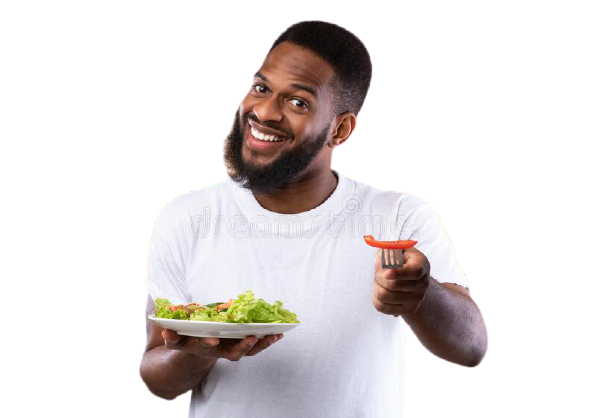
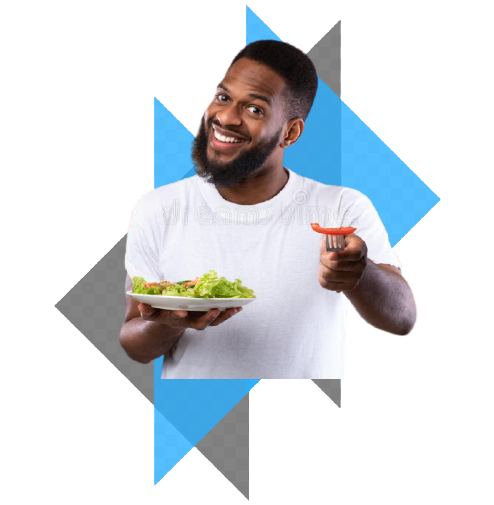
second commit

diff --git a/index.html b/index.html
@@ -13,24 +13,49 @@
 </head>
 
 <body>
+
     <section class="contain">
+
         <div class="container">
+
             <h1>EATING <span>HEALTHY FOOD</span> FILLS YOUR BODY WITH ENERGY AND NUTRIENTS.</h1>
             <h1>IMAGINE YOUR CELLS SMILING BACK AT YOU AND SAYING: ‘ <span>THANK YOU!</span> ’</h1>
             <p>Think about it! Money is not the only type of investment. You invest in yourself as well. You learn new
                 skills and also pay for your food. Why not pay for food that’s healthy and gives a return in terms of
                 good health and a fit body and mind?</p>
+            <a target="_blank" href="https://www.facebook.com/mirzawajih.ali.1">Order Food</a>
+
         </div>
+
+
         <div class="container">
-            <img src="images/female/girlwithfork.png" alt="Error 404">
+
+            <img src="images/male/offeringfood.png" alt="Error 404">
+
         </div>
+
     </section>
 
     <section class="information">
+
         <div class="container">
+
             <img src="images/male/offeringfood.png" alt="">
+
         </div>
+
+        <div class="container">
+
+            <h1>About me</h1>
+
+            <p></p>
+
+            <a target="_blank" href="https://www.facebook.com/mirzawajih.ali.1">Contact Me</a>
+
+        </div>
+
     </section>
+
 </body>
 
 </html>

diff --git a/style.css b/style.css
@@ -4,16 +4,34 @@ body {padding: 0;
 .contain {display: flex;}
 .container {width: 40%;
             margin: 20px;
-            padding: 40px 60px}
-.container img {width: 90%;}
+            padding: 40px 60px ;
+        color: black;
+                font-size: 20px;
+                font-weight: 600; }
+.container img {width: 100%;}
 .container h1 {font-family: 'Bebas Neue', cursive;
                 font-size: 50px;
-                font-weight: 700;}
-span {color: orange;}
+                font-weight: 700;
+                color: rgb(75, 75, 75);
+        }
+.contain a {padding: 10px 50px;
+        border-radius: 10px;
+        border: 2px solid black ;
+         background-image:linear-gradient(rgb(98, 224, 255) , rgb(251, 251, 251));
+        text-decoration: none;
+        color: black;
+        font-weight: 700;
+        
+        font-family:  'Bebas Neue', cursive;
+        }
+span {color: rgb(4, 163, 236);}
 
 .information {display: flex;
-                height: 500px;
+                height: 700px;
                 width: 100%;
                 background-repeat: no-repeat;
                 background-image: url(images/shapes/Frame\ 57.jpg);
             background-size: cover;}
+
+.information img { width: 600px;
+       }
